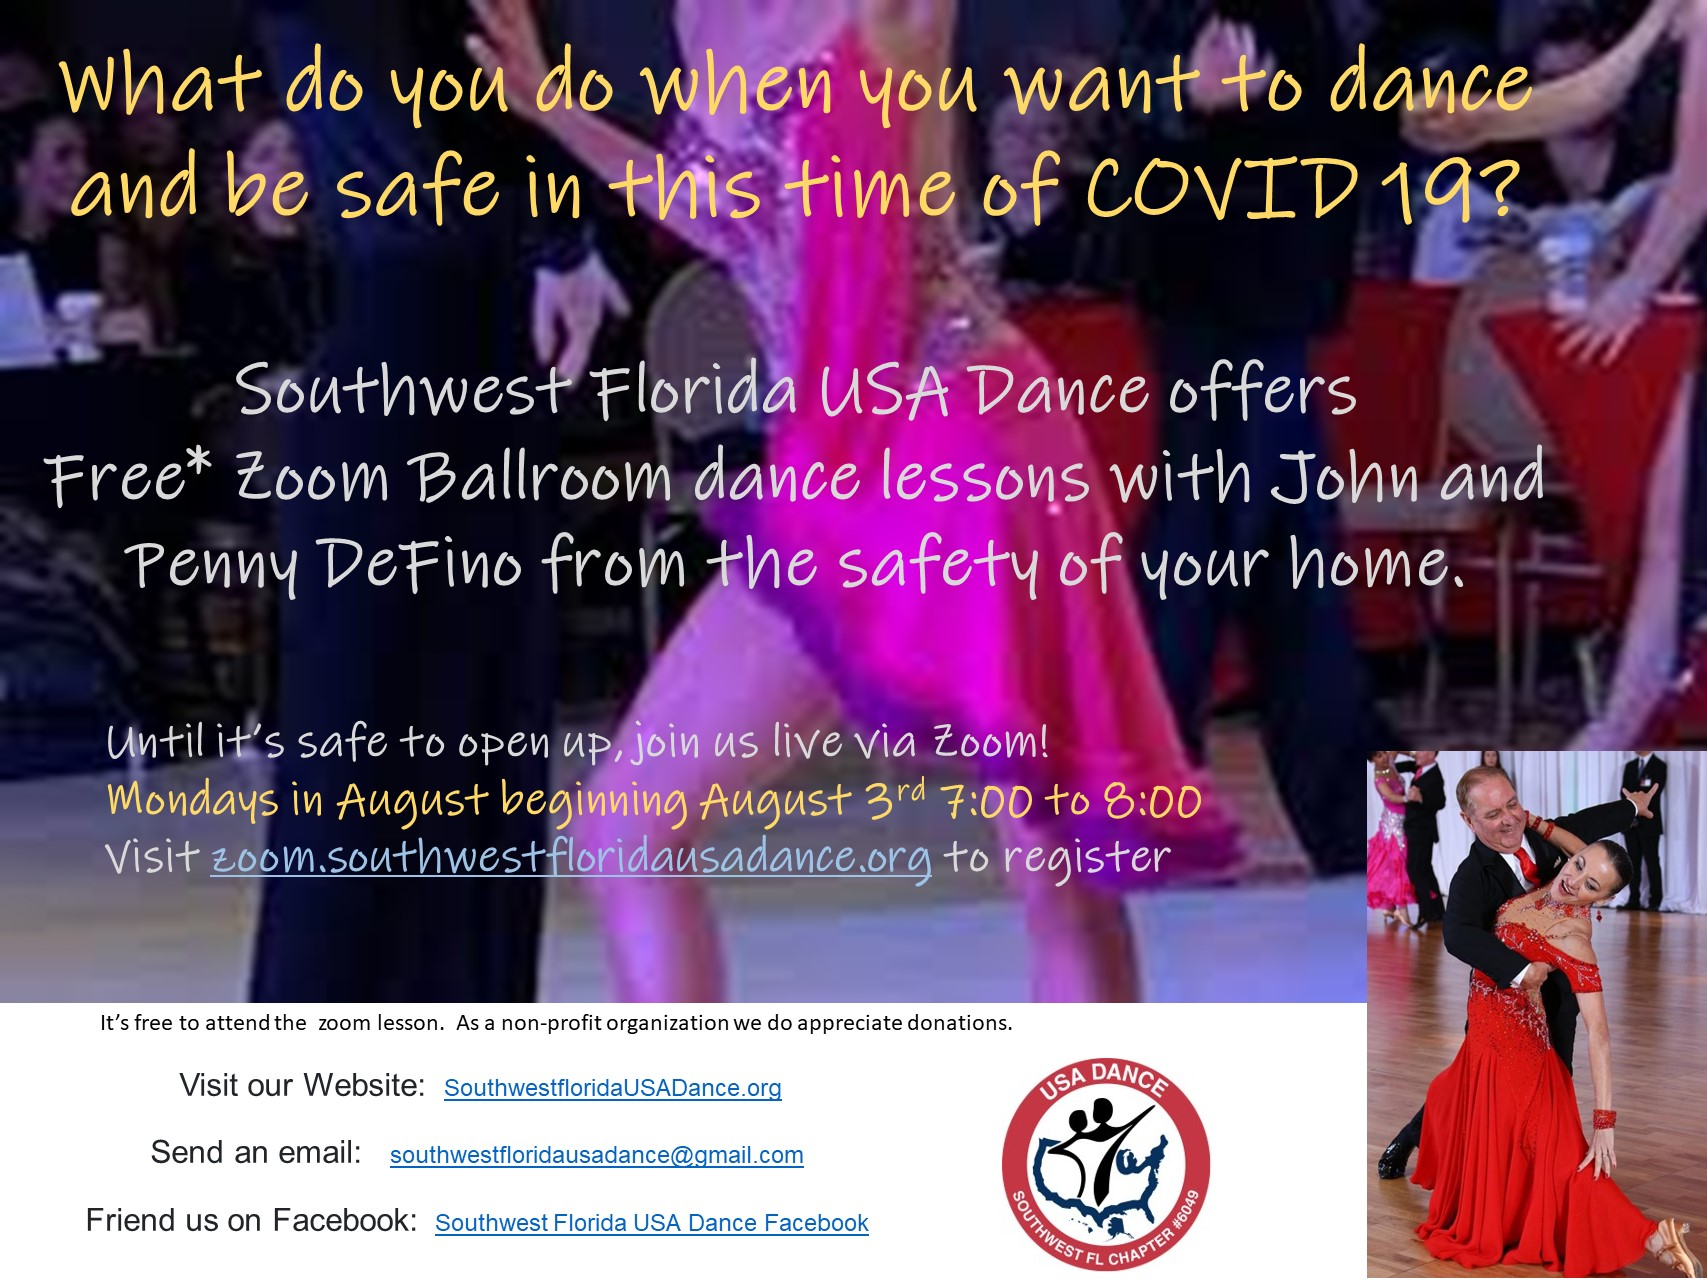
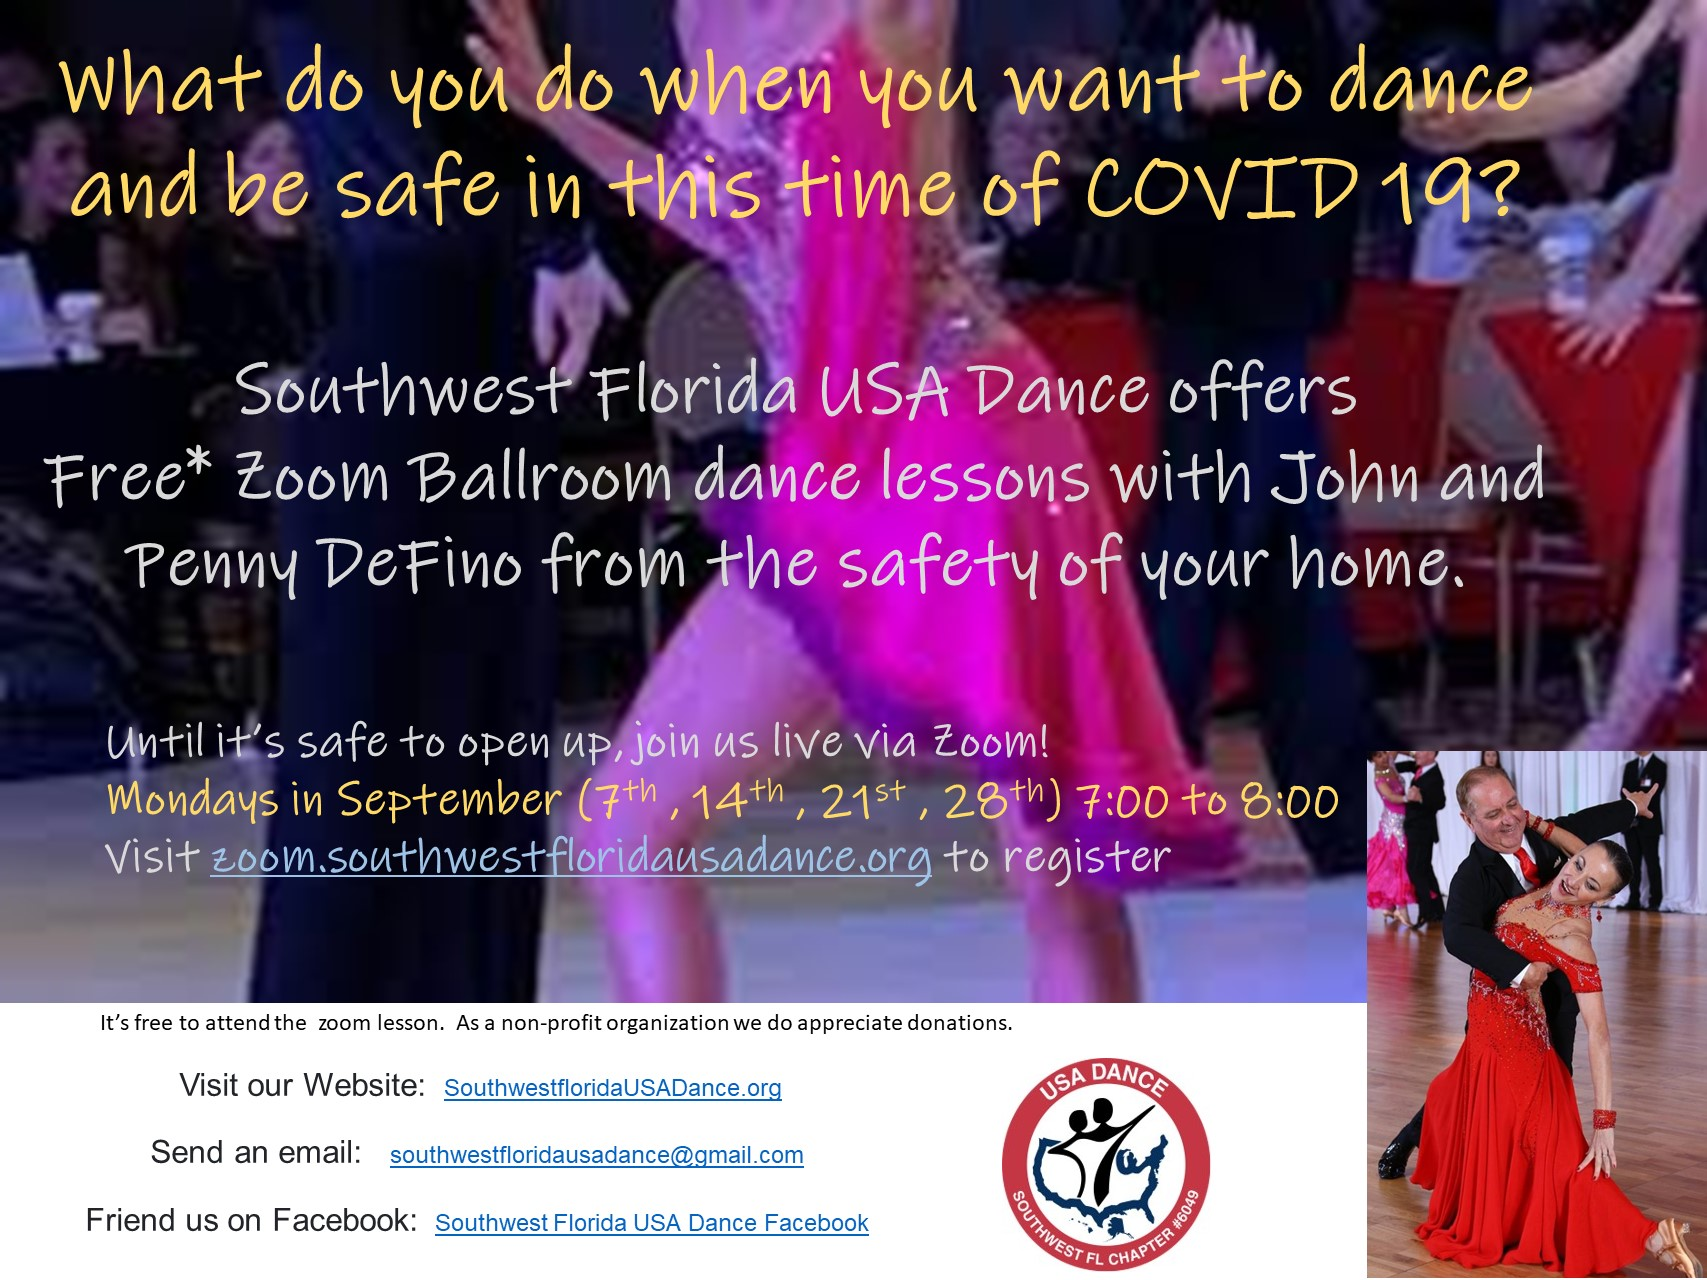
adjustments to instructors, zoom link, and flyers

Changed region(s): [[0.1863, 0.5938, 0.7762, 0.6562]]

diff --git a/docs/index.html b/docs/index.html
@@ -423,18 +423,6 @@
         <div class="col-sm-6 col-md-4 mt-4 d-flex justify-content-center">
           <div class="card text-center" style="width: 18rem;">
             <div class="card-body">
-              <h5 class="card-title">Ryan Patrick
-              </h5>
-              <!-- <p class="card-text">6240 Metro Plantation Rd, Fort Myers, FL 33966<br>
-                (239) 275-925
-              </p> -->
-              <a href="http://islandballroom.com/" class="card-link">Website</a>
-            </div>
-          </div>
-        </div>
-        <div class="col-sm-6 col-md-4 mt-4 d-flex justify-content-center">
-          <div class="card text-center" style="width: 18rem;">
-            <div class="card-body">
               <h5 class="card-title">John and Penny Defino </h5>
               <!-- <p class="card-text">6240 Metro Plantation Rd, Fort Myers, FL 33966<br>
                 (239) 275-925

diff --git a/docs/zoom-classes.html b/docs/zoom-classes.html
@@ -132,8 +132,7 @@
                     Taught by national champions John and Penny DeFino<br>
                     No partner necessary/some dance experience helpful<br>
                 </p>
-                <p class="large text-muted"><a
-                        href="https://us02web.zoom.us/meeting/register/tZwrceiupz0iG9JruRc0h_Tje3khiiVHJ81C">Zoom
+                <p class="large text-muted"><a href="http://zoom.definoballroom.com">Zoom
                         Link</a>
                 </p>
                 <br>
